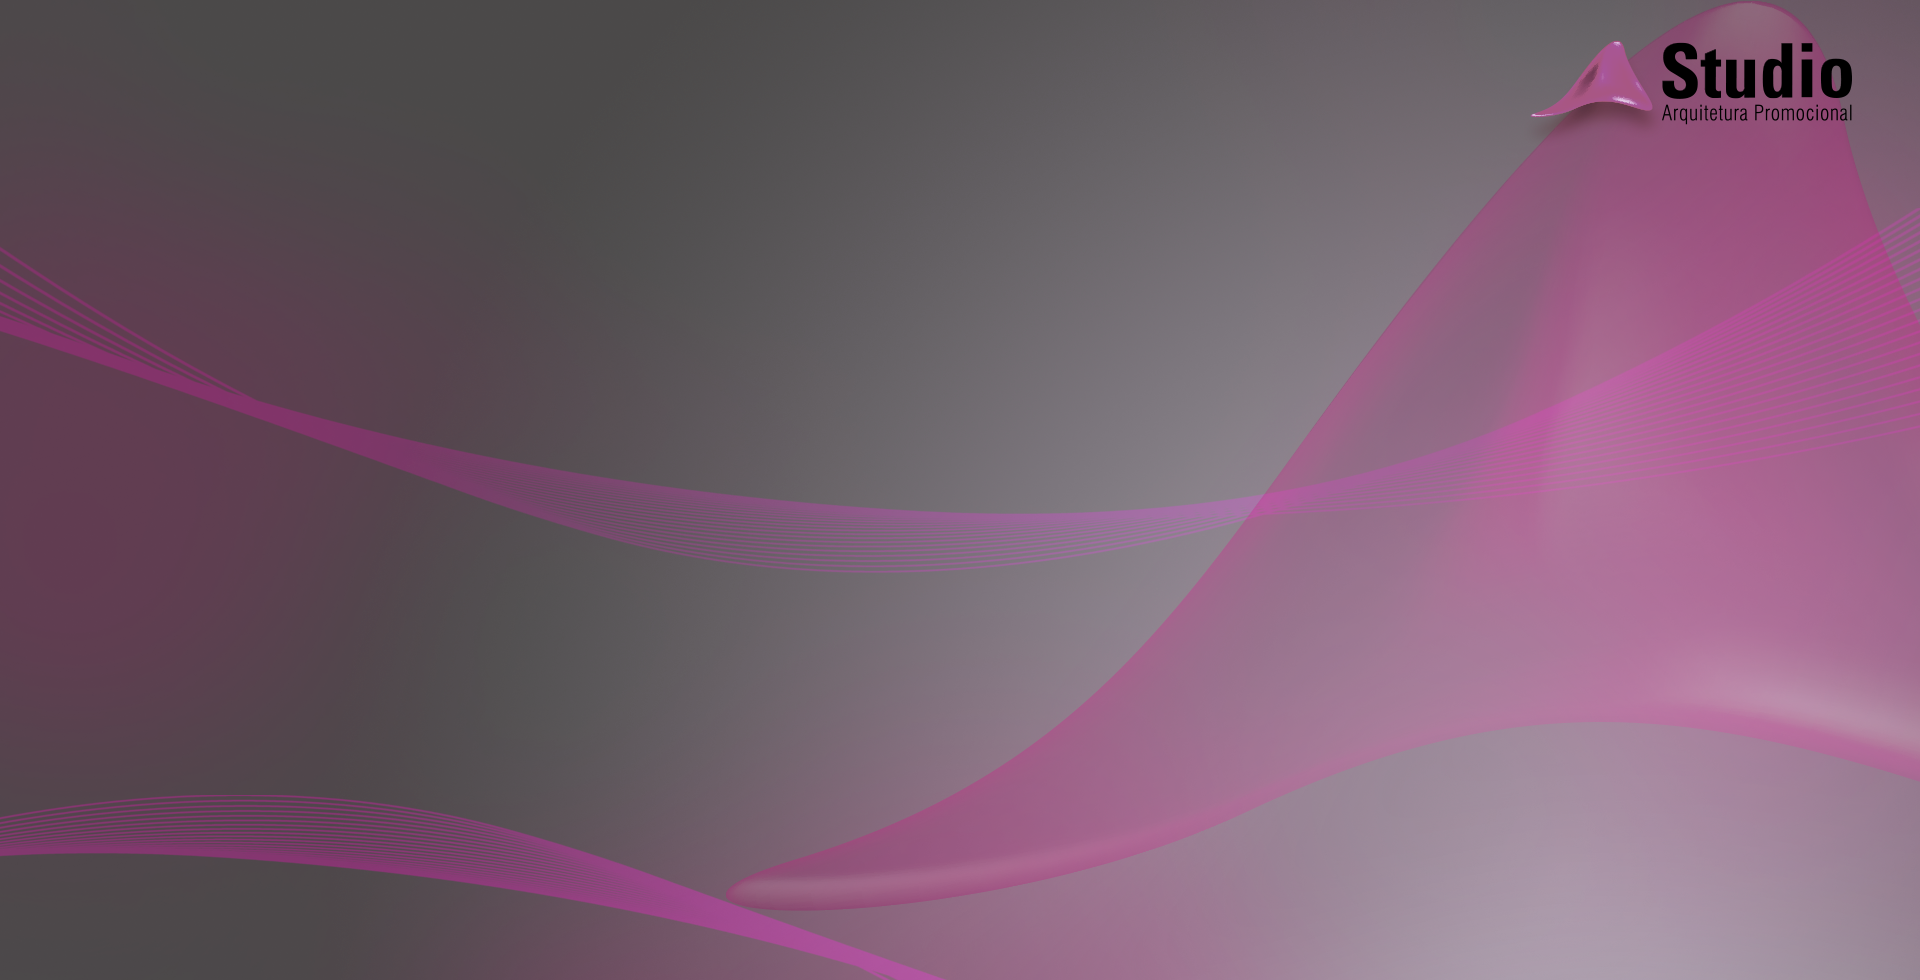
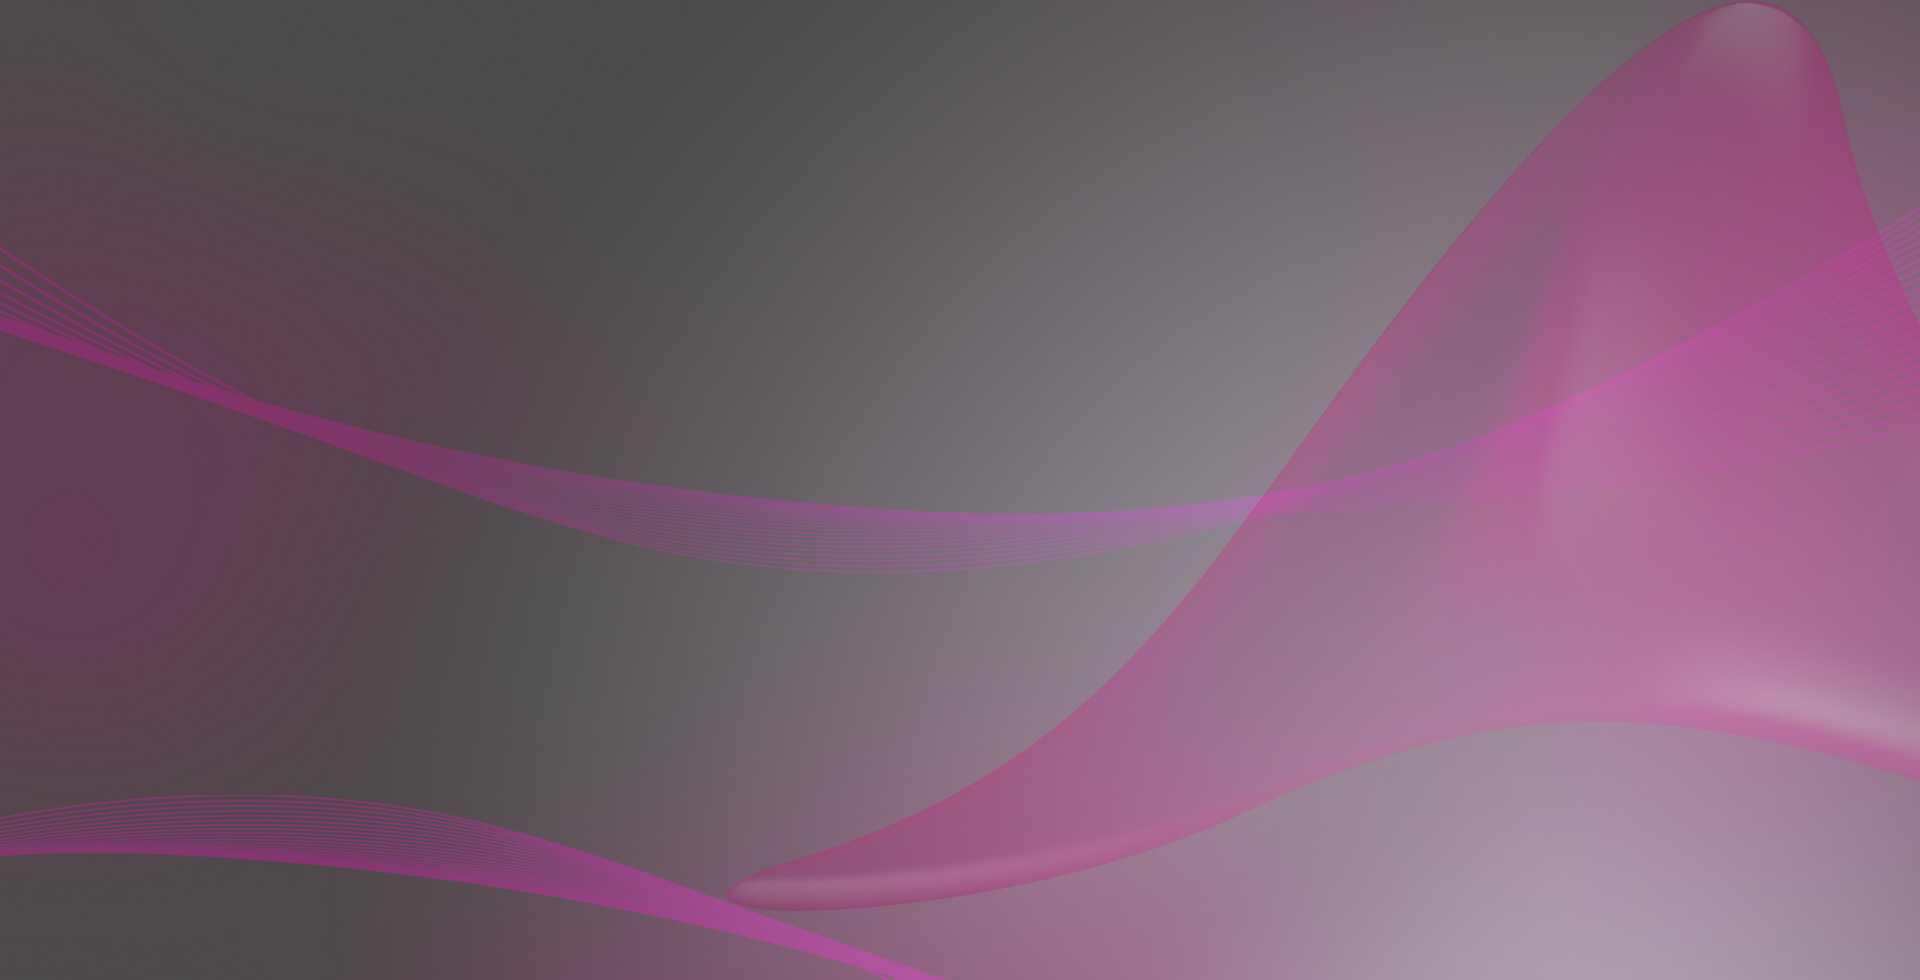
Ajustando imagem de fundo

Changed region(s): [[0.7812, 0.0306, 0.9688, 0.1224]]

diff --git a/contato.html b/contato.html
@@ -24,7 +24,7 @@
       <div class="contact-item">
         <h2>Contato</h2>
         <div class="contact-info">
-          <div class="contact-info-item">
+          <div class="contact-info-item" style="margin-bottom: 4rem;">
             <a href="mailto:cris@studioarquitetura.com.br" aria-label="Enviar email para cris@studioarquitetura.com.br">
               <img src="image/icons/email.png" alt="Ícone de email" class="contact-icon">
               <p class="contact-text">cris@studioarquitetura.com.br</p>
@@ -34,6 +34,12 @@
             <a href="mailto:atendimento@studioarquitetura.com.br" aria-label="Enviar email para atendimento@studioarquitetura.com.br">
               <img src="image/icons/email.png" alt="Ícone de email" class="contact-icon">
               <p class="contact-text">atendimento@studioarquitetura.com.br</p>
+            </a>
+          </div>
+          <div class="contact-info-item">
+            <a href="https://wa.me/5511989331787" target="_blank" rel="noopener noreferrer" aria-label="Abrir WhatsApp">
+              <img src="image/icons/whatsapp.png" alt="Ícone do WhatsApp" class="contact-icon whatsapp">
+              <p class="contact-text">(11) 98920 7796</p>
             </a>
           </div>
         </div>

diff --git a/css/style.css b/css/style.css
@@ -94,7 +94,6 @@ body {
   height: auto;
   z-index: 10;
   transition: transform 0.3s ease;
-  display: none;
 }
 
 .logo:hover {
@@ -144,7 +143,6 @@ body {
 .contact-info {
   display: flex;
   flex-direction: column;
-  gap: 1.5rem;
   width: 100%;
 }
 
